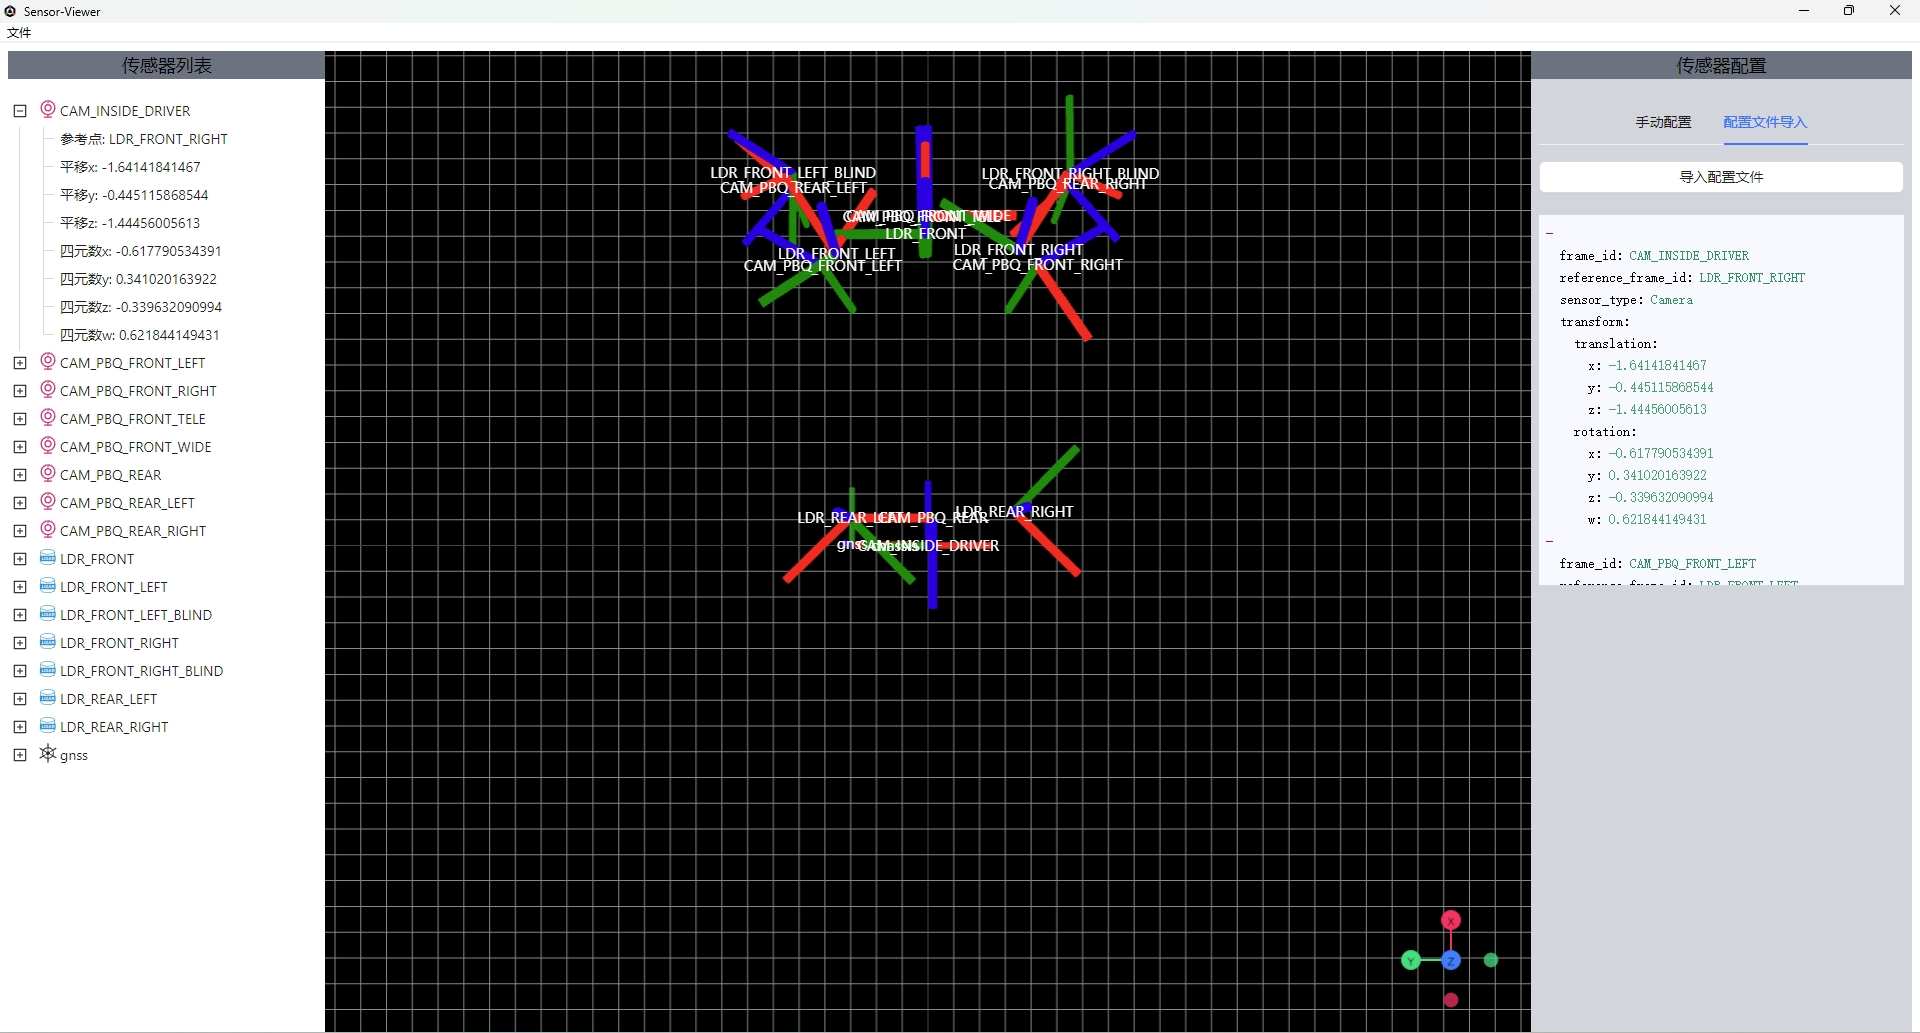
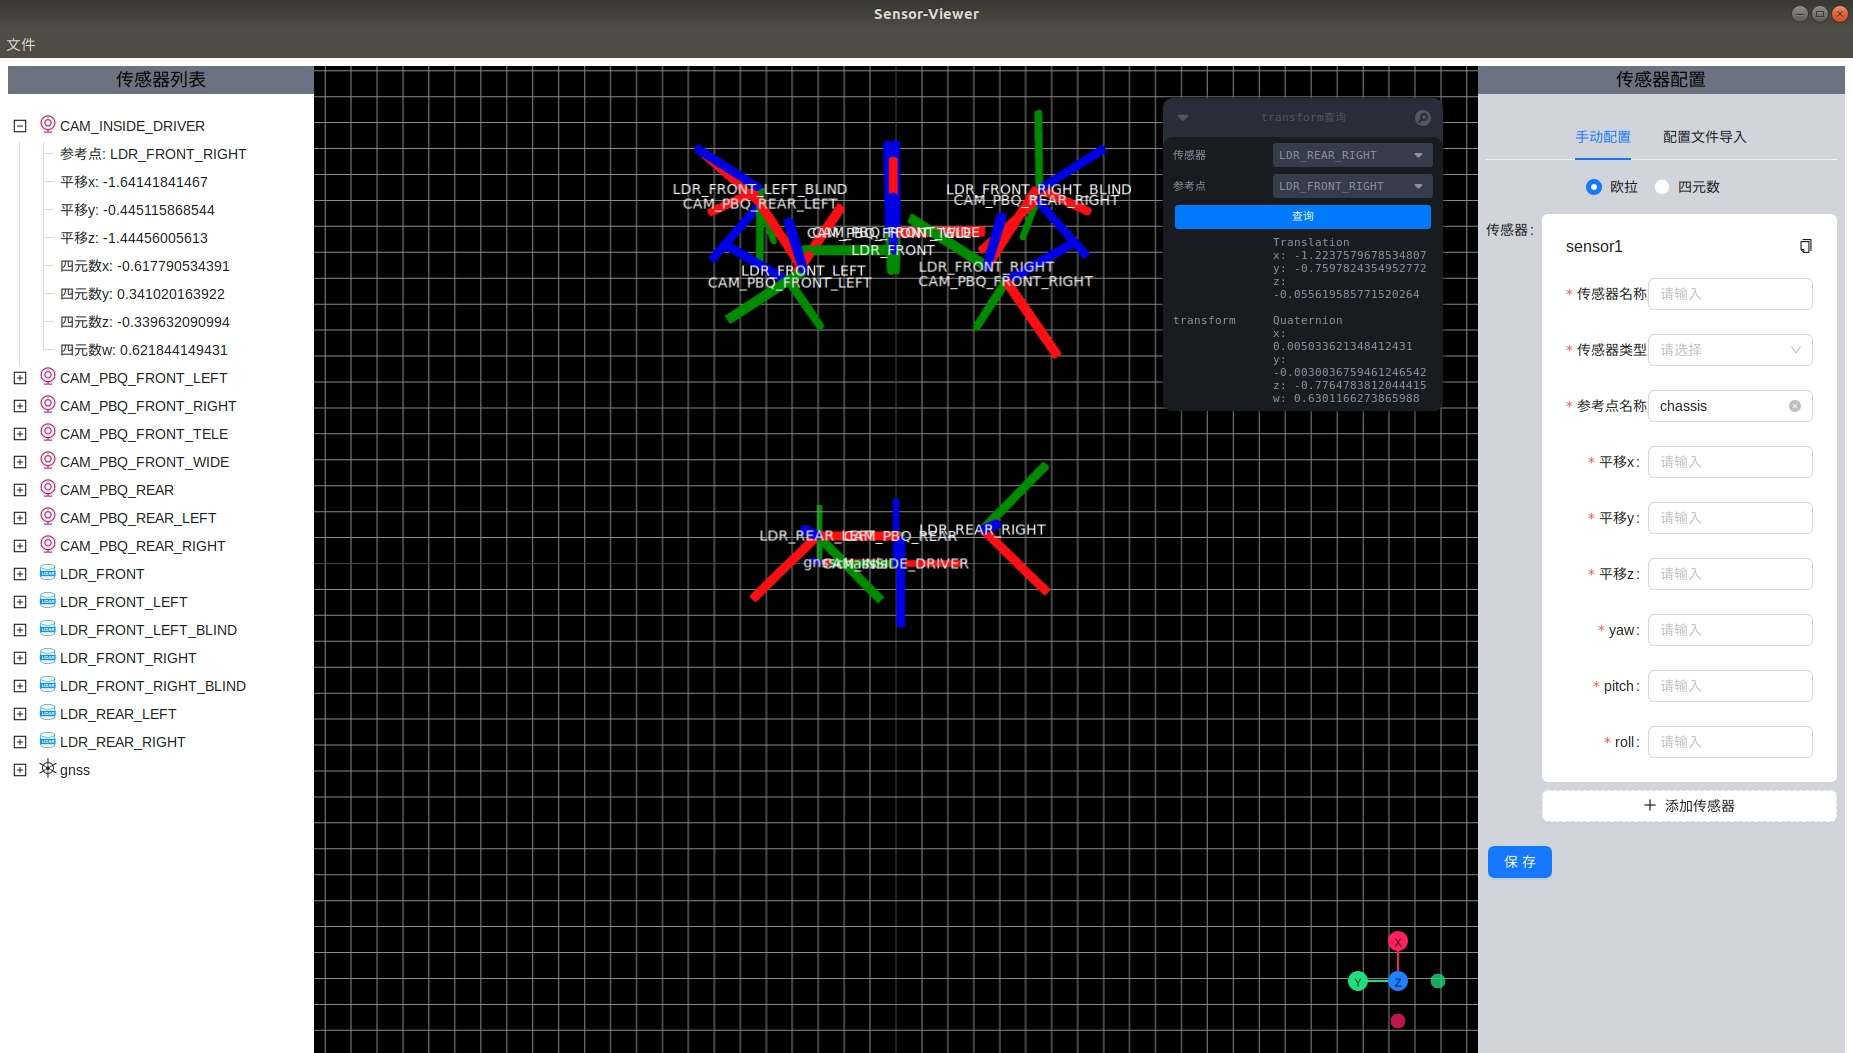
optimise and new feat

diff --git a/src/components/Viewer.jsx b/src/components/Viewer.jsx
@@ -1,12 +1,15 @@
 import React, { useState, useEffect, useRef } from 'react';
 import { OrbitControls, GizmoHelper, GizmoViewport, Html, Text } from '@react-three/drei';
 import * as THREE from 'three';
+import { GLTFExporter } from 'three/examples/jsm/exporters/GLTFExporter';
 import { useControls, button } from 'leva';
 import { useSnapshot } from 'valtio';
 import SensorStore from '../store/SensorStore';
 import { findPathToTarget } from '../utils/findPathToTarget';
 import toast, { Toaster } from 'react-hot-toast';
 import { findDangling } from '../utils/handleDampling';
+import { save } from '@tauri-apps/api/dialog';
+import { writeFile } from '@tauri-apps/api/fs';
 
 const basicMesh = (
     <>
@@ -30,10 +33,38 @@ const basicMesh = (
 const Viewer = () => {
     const { sensorList } = useSnapshot(SensorStore);
 
+    const parentGroupRef = useRef();
     const meshRefs = useRef({});
     const chassisRef = useRef();
     const [sensorViewer, setSensorViwer] = useState([]);
     const [sensorMatrix, setSensorMatrix] = useState({});
+
+    const exportGLTF = async () => {
+        const exporter = new GLTFExporter();
+        exporter.parse(
+            parentGroupRef.current,
+            async result => {
+                const filePath = await save({
+                    filters: [
+                        {
+                            name: 'GLTF',
+                            extensions: ['gltf'],
+                        },
+                    ],
+                });
+
+                const fileNameWithExtension = filePath.endsWith('.gltf')
+                    ? filePath
+                    : `${filePath}.gltf`;
+
+                await writeFile({
+                    path: fileNameWithExtension,
+                    contents: JSON.stringify(result),
+                });
+            },
+            { binary: true }
+        );
+    };
 
     const sensorShowError = sensor => {
         const danglingList = sensor.toString();
@@ -51,24 +82,27 @@ const Viewer = () => {
             参考点: {
                 options: Object.keys(sensorMatrix),
             },
-            查询: button(get => {
+            变换结果: {
+                value: '',
+                editable: false,
+            },
+            变换查询: button(get => {
                 let sensor = get('传感器');
-                let rer = get('参考点');
+                let ref = get('参考点');
                 if (sensor && ref) {
-                    let tfRes = sensorMatrix[rer].clone().invert().multiply(sensorMatrix[sensor]);
+                    let tfRes = sensorMatrix[ref].clone().invert().multiply(sensorMatrix[sensor]);
                     let p = new THREE.Vector3();
                     let q = new THREE.Quaternion();
                     let s = new THREE.Vector3();
                     tfRes.decompose(p, q, s);
                     set({
-                        transform: `Translation\nx: ${p.x} y: ${p.y} z: ${p.z}\n\nQuaternion\nx: ${q.x} y: ${q.y} z: ${q.z} w: ${q.w}`,
+                        变换结果: `Translation\nx: ${p.x} y: ${p.y} z: ${p.z}\n\nQuaternion\nx: ${q.x} y: ${q.y} z: ${q.z} w: ${q.w}`,
                     });
                 }
             }),
-            transform: {
-                value: '',
-                editable: false,
-            },
+            模型导出: button(() => {
+                exportGLTF();
+            }),
         }),
         [sensorMatrix]
     );
@@ -160,25 +194,28 @@ const Viewer = () => {
             </GizmoHelper>
             <gridHelper args={[1, 50]} rotation={new THREE.Euler(Math.PI / 2, 0, 0)} />
 
-            <group ref={chassisRef} rotation-z={Math.PI / 2} scale={[0.1, 0.1, 0.1]}>
-                {basicMesh}
-                <Html position={[0, 0.25, 0.25]} center>
-                    <div
-                        className="text-white text-sm"
-                        onClick={() => (chassisRef.current.visible = !chassisRef.current.visible)}
-                        onPointerEnter={() => {
-                            document.body.style.cursor = 'pointer';
-                        }}
-                        onPointerLeave={() => {
-                            document.body.style.cursor = 'default';
-                        }}
-                    >
-                        chassis
-                    </div>
-                </Html>
+            <group ref={parentGroupRef}>
+                <group ref={chassisRef} rotation-z={Math.PI / 2} scale={[0.1, 0.1, 0.1]}>
+                    {basicMesh}
+                    <Html position={[0, 0.25, 0.25]} center>
+                        <div
+                            className="text-white text-sm"
+                            onClick={() =>
+                                (chassisRef.current.visible = !chassisRef.current.visible)
+                            }
+                            onPointerEnter={() => {
+                                document.body.style.cursor = 'pointer';
+                            }}
+                            onPointerLeave={() => {
+                                document.body.style.cursor = 'default';
+                            }}
+                        >
+                            chassis
+                        </div>
+                    </Html>
+                </group>
+                {sensorViewer.map(item => item)}
             </group>
-
-            {sensorViewer.map(item => item)}
         </>
     );
 };

diff --git a/src/main.jsx b/src/main.jsx
@@ -23,7 +23,10 @@ const saveYaml = async () => {
             },
         ],
     });
-    invoke('save_yaml', { file_path: filePath }).catch(err =>
+
+    const fileNameWithExtension = filePath.endsWith('.yaml') ? filePath : `${filePath}.yaml`;
+
+    invoke('save_yaml', { file_path: fileNameWithExtension }).catch(err =>
         message('无数据可保存', { title: 'Sensor-Viewer', type: 'warning' })
     );
 };
@@ -52,7 +55,7 @@ ReactDOM.createRoot(document.getElementById('root')).render(
             <SensorTree />
         </div>
         <div className="h-screen flex-1 overflow-hidden bg-black my-0">
-            <Leva titleBar={{ title: 'transform查询', position: { x: -400, y: 30 } }} />
+            <Leva titleBar={{ title: '工具箱', position: { x: -400, y: 30 } }} />
             <Canvas camera={{ position: [0, 0, 0.5] }}>
                 <Viewer />
             </Canvas>

diff --git a/index.html b/index.html
@@ -1,14 +1,14 @@
-<!doctype html>
+<!DOCTYPE html>
 <html lang="en">
-  <head>
-    <meta charset="UTF-8" />
-    <link rel="icon" type="image/svg+xml" href="/vite.svg" />
-    <meta name="viewport" content="width=device-width, initial-scale=1.0" />
-    <title>Tauri + React</title>
-  </head>
+    <head>
+        <meta charset="UTF-8" />
+        <link rel="icon" type="image/svg+xml" href="/icon.svg" />
+        <meta name="viewport" content="width=device-width, initial-scale=1.0" />
+        <title>Sensor-Viewer</title>
+    </head>
 
-  <body >
-    <div id="root" ></div>
-    <script type="module" src="/src/main.jsx"></script>
-  </body>
+    <body>
+        <div id="root"></div>
+        <script type="module" src="/src/main.jsx"></script>
+    </body>
 </html>

diff --git a/README.md b/README.md
@@ -20,13 +20,25 @@
 -   [nodejs](https://nodejs.org/en)
 -   [tauri](https://tauri.app/v1/guides/getting-started/prerequisites)
 
-2. 克隆源码
+1. 克隆源码
 
 ```bash
 git clone https://github.com/neo896/Sensor-Viewer.git
 ```
 
-3. 打包
+2. 安装依赖
+
+```bash
+npm install
+```
+
+3. 运行
+
+```bash
+npm run tauri dev
+```
+
+4. 构建
 
 ```bash
 npm run tauri build
